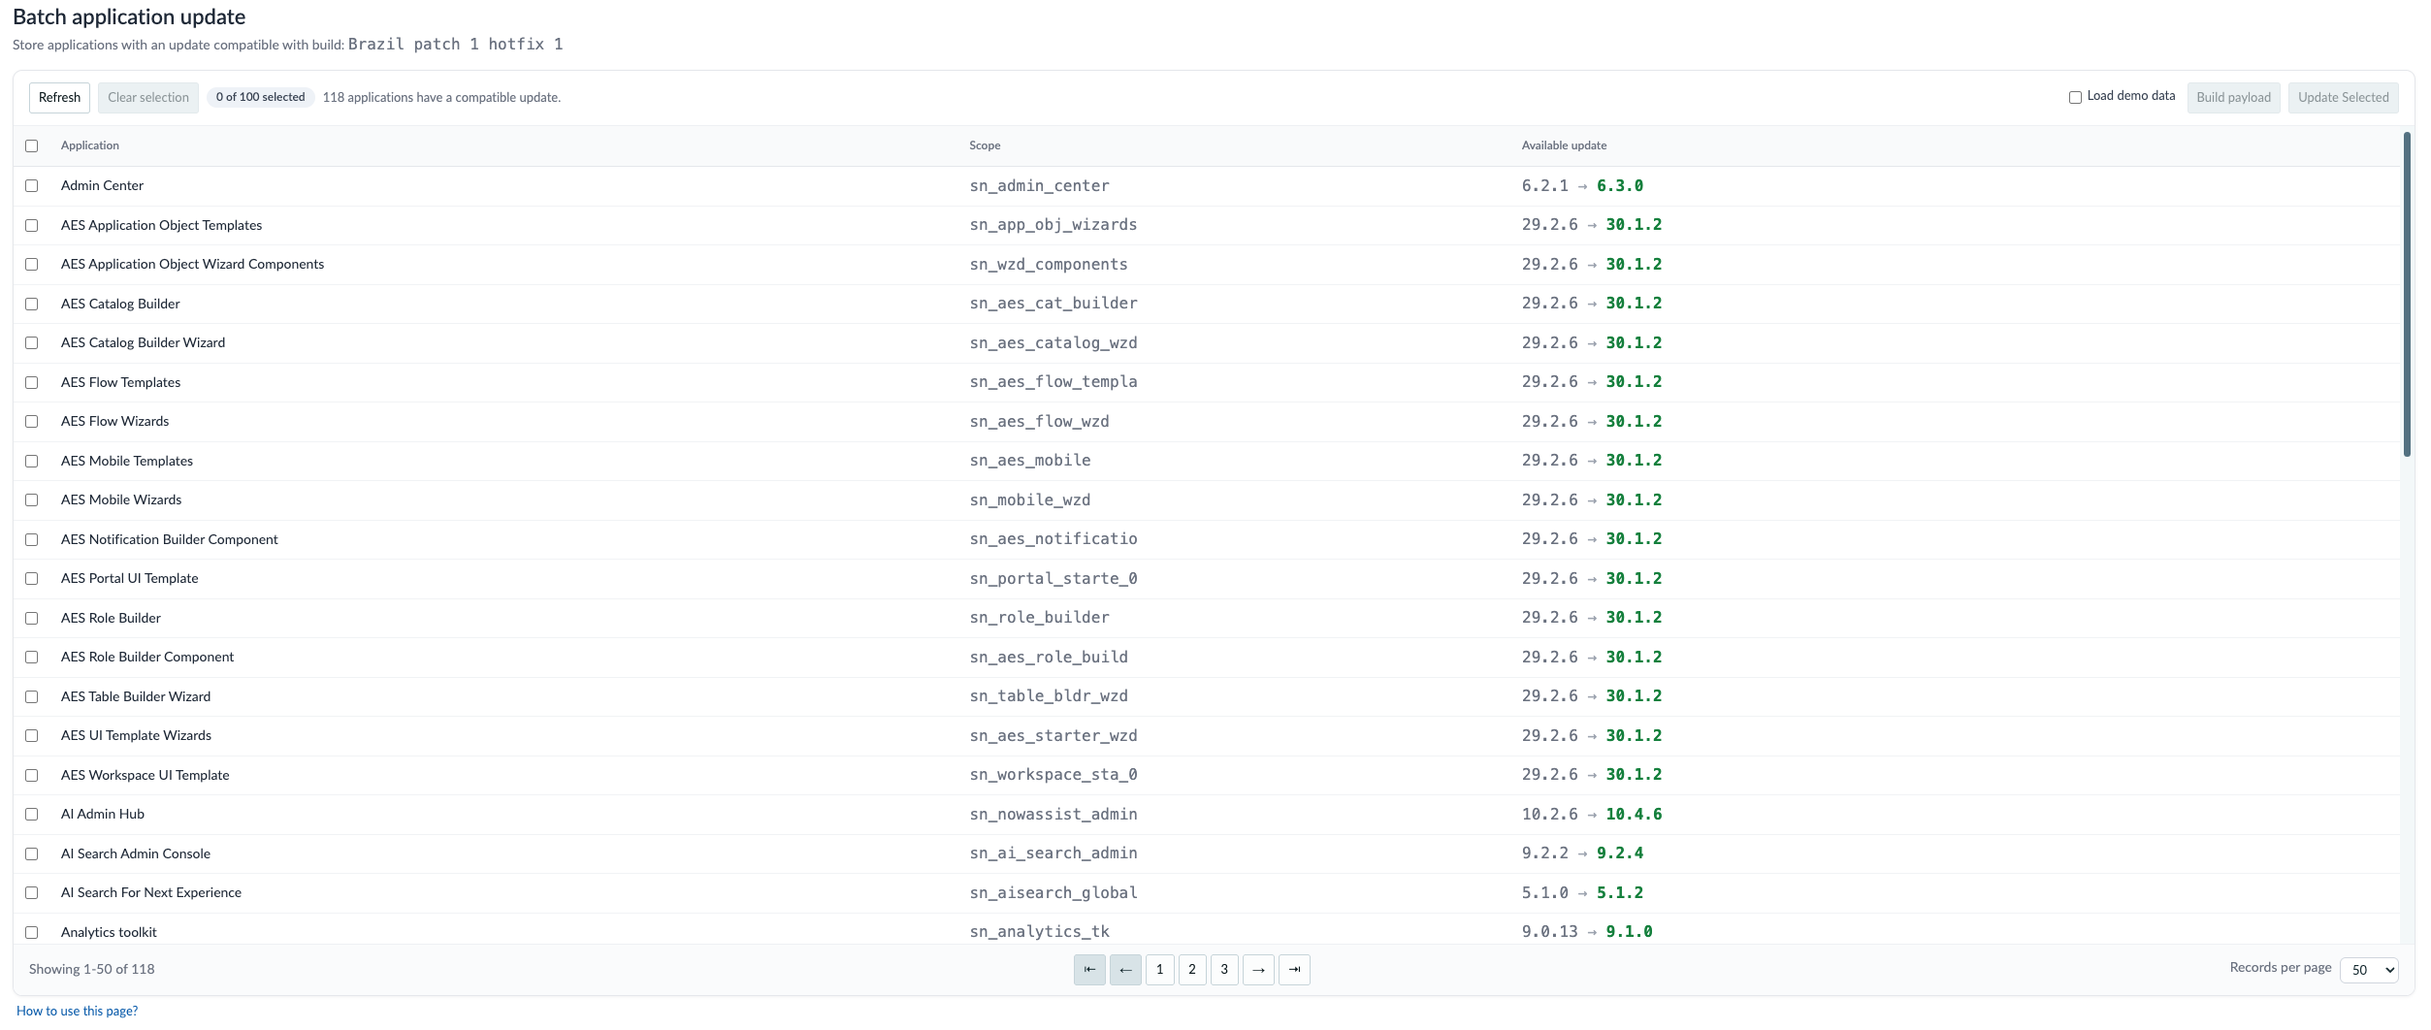
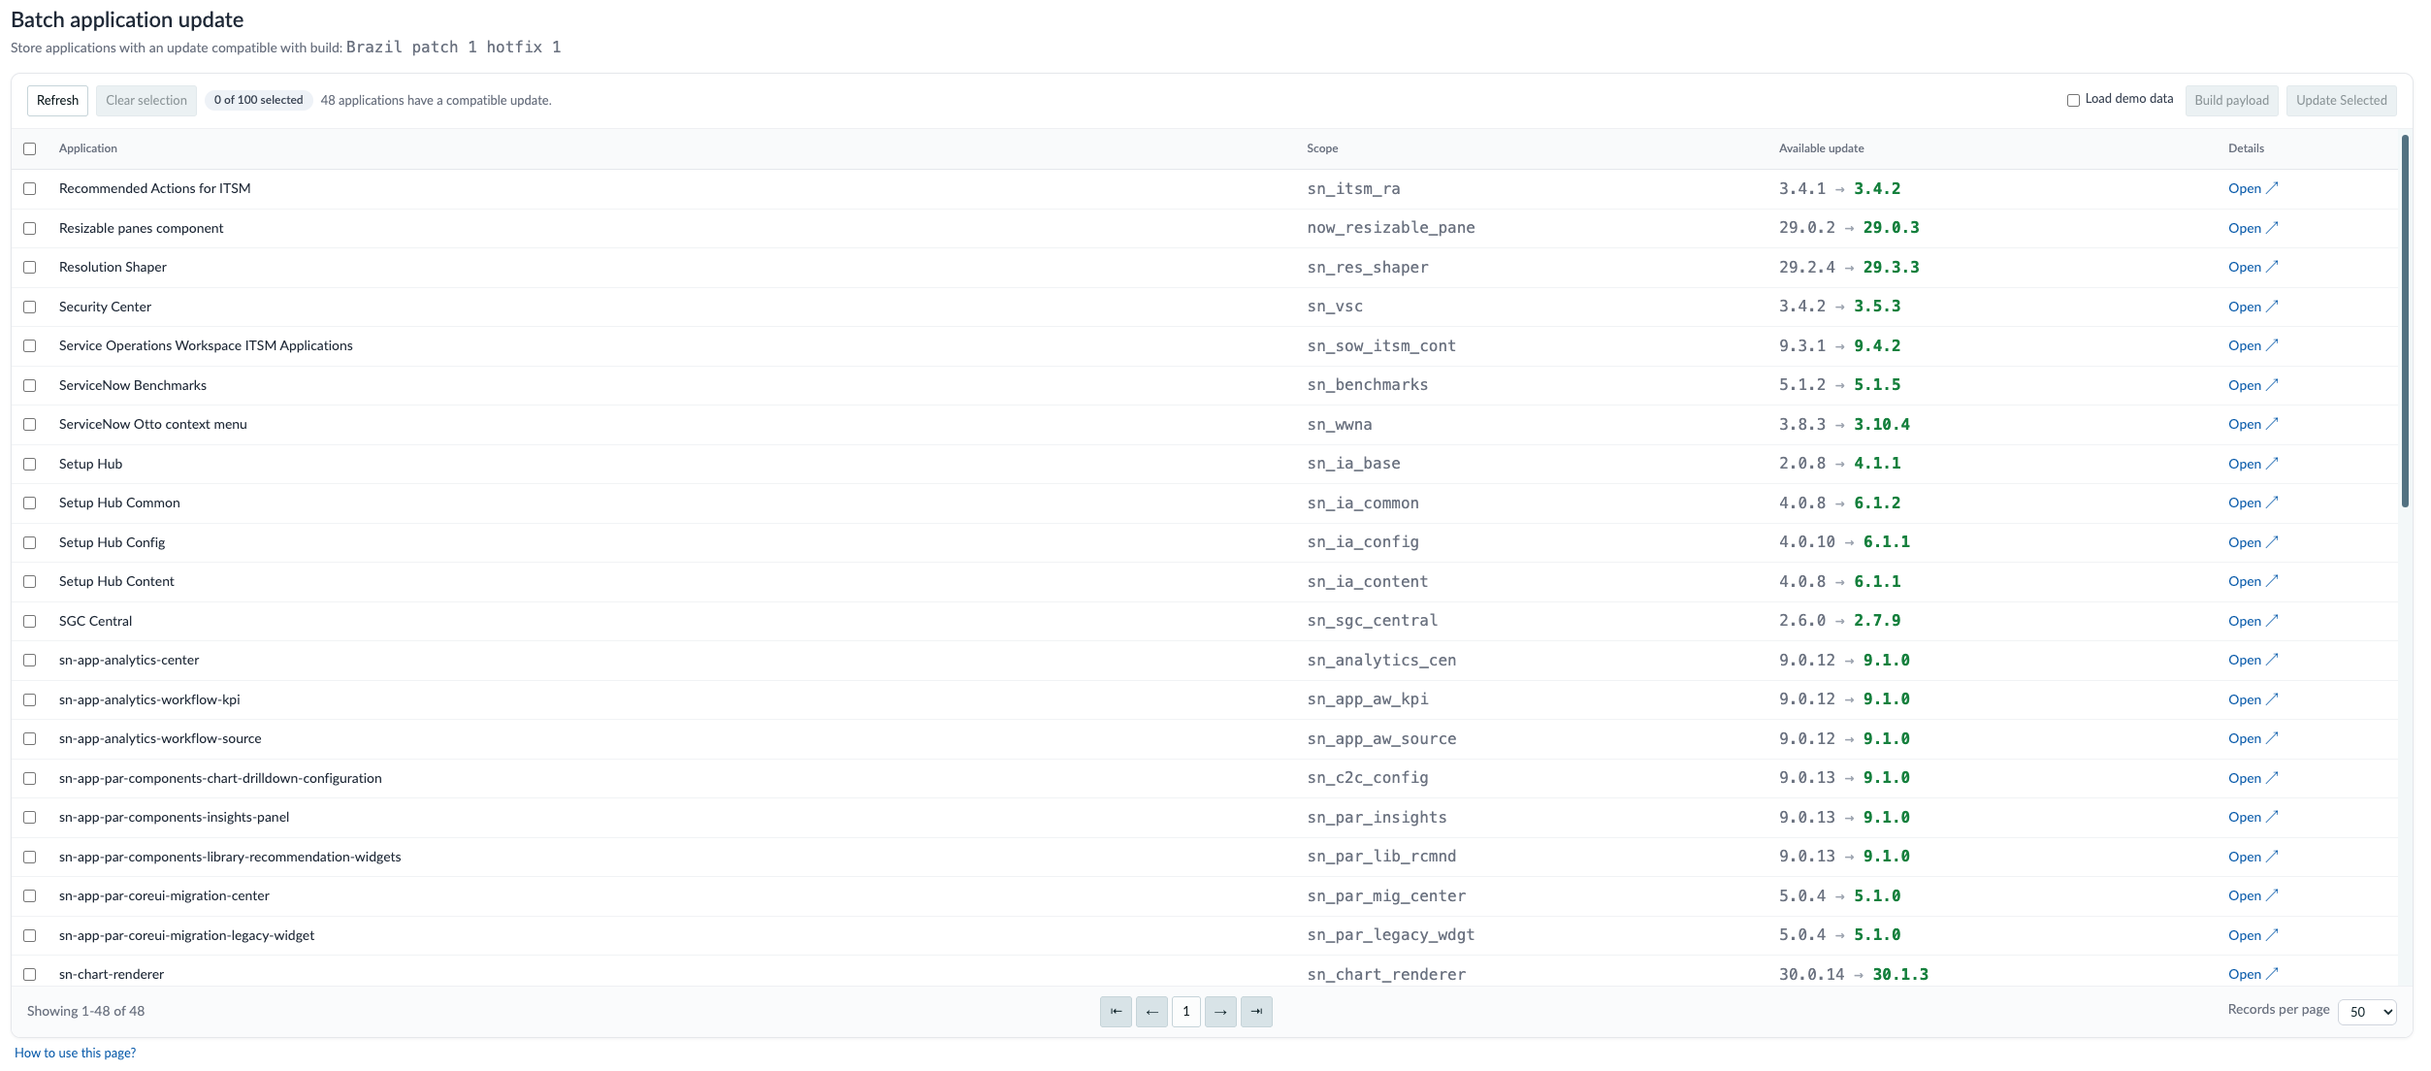
Release v1.1: Details link, inline demo data badge and System Definition module

diff --git a/src/ui_page/batch_app_update.client.js b/src/ui_page/batch_app_update.client.js
@@ -65,6 +65,7 @@ var BAU_MSG = [
     'Records per page',
     'Payload',
     'Copy JSON',
+    'Details',
     'Confirm batch update',
     'The update runs on the server and cannot be stopped from this page.',
     'Cancel',
@@ -131,6 +132,8 @@ var BAU_MSG = [
     'Status check failed ({0}/{1}): {2}. Retrying in {3} s.',
     'Finished, last check {0}',
     'Batch finished: {0}.',
+    'Open',
+    'Open in Application Manager',
     //help dialog
     'How to use this page?',
     'close',
@@ -263,6 +266,22 @@ function bauSetLink(id, href, text) {
     } else {
         el.textContent = text || '-';
     }
+}
+
+//Link to the application's target version in Application Manager (Next Experience route)
+function bauAppManagerLink(app) {
+    var a = document.createElement('a');
+    a.href = '/now/app-manager/home/app/id/' + encodeURIComponent(app.id) + '/v/' + encodeURIComponent(app.targetVersion);
+    a.target = '_blank';
+    a.rel = 'noopener';
+    a.className = 'bau-ext-link';
+    a.textContent = bauT('Open') + ' \u2197';
+    a.title = bauT('Open in Application Manager');
+    //Opening the link must not toggle the row selection
+    a.onclick = function (e) {
+        e.stopPropagation();
+    };
+    return a;
 }
 
 function bauSelectedCount() {
@@ -479,7 +498,11 @@ function bauRenderRows() {
         tdCheck.appendChild(cb);
         tr.appendChild(tdCheck);
 
-        tr.appendChild(bauCell(app.name, 'bau-col-name'));
+        var tdName = bauCell(app.name, 'bau-col-name');
+        if (app.demoDataLoaded) {
+            tdName.appendChild(bauSpan(bauT('Demo data'), 'bau-badge'));
+        }
+        tr.appendChild(tdName);
         tr.appendChild(bauCell(app.scope, 'bau-mono bau-muted'));
 
         var tdVer = document.createElement('td');
@@ -489,11 +512,9 @@ function bauRenderRows() {
         tdVer.appendChild(bauSpan(app.targetVersion, 'bau-target'));
         tr.appendChild(tdVer);
 
-        var tdDemo = document.createElement('td');
-        if (app.demoDataLoaded) {
-            tdDemo.appendChild(bauSpan(bauT('Demo data'), 'bau-badge'));
-        }
-        tr.appendChild(tdDemo);
+        var tdLink = document.createElement('td');
+        tdLink.appendChild(bauAppManagerLink(app));
+        tr.appendChild(tdLink);
 
         tr.onclick = function () {
             if (BAU.busy) {

diff --git a/translations/install_fi.js b/translations/install_fi.js
@@ -6,7 +6,7 @@
  * Existing messages are reported (same or different text) and never overwritten.
  */
 (function () {
-    var DRY_RUN = true; //set to false to create the records
+    var READ_ONLY = true; //set to false to create the records
     var LANGUAGE = 'fi'; //language code as in sys_language.id, for example 'de'
     var USE_WORKFLOW = true; //true: records are captured in your current update set
     var LOG_PREFIX = 'BatchAppUpdateTranslations (FI): ';
@@ -41,6 +41,7 @@
         ['Records per page', 'Tietueita sivulla'],
         ['Payload', 'Hyötykuorma'],
         ['Copy JSON', 'Kopioi JSON'],
+        ['Details', 'Tiedot'],
         ['Confirm batch update', 'Vahvista eräpäivitys'],
         ['The update runs on the server and cannot be stopped from this page.', 'Päivitys suoritetaan palvelimella, eikä sitä voi pysäyttää tältä sivulta.'],
         ['Cancel', 'Peruuta'],
@@ -106,6 +107,8 @@
         ['Status check failed ({0}/{1}): {2}. Retrying in {3} s.', 'Tilan tarkistus epäonnistui ({0}/{1}): {2}. Uusi yritys {3} s kuluttua.'],
         ['Finished, last check {0}', 'Valmis, viimeisin tarkistus {0}'],
         ['Batch finished: {0}.', 'Erä valmis: {0}.'],
+        ['Open', 'Avaa'],
+        ['Open in Application Manager', 'Avaa Application Managerissa'],
         ['How to use this page?', 'Miten tätä sivua käytetään?'],
         ['close', 'Sulje'],
         ['What this page does', 'Mitä sivu tekee'],
@@ -126,7 +129,7 @@
     ];
 
     var out = [];
-    out.push('DRY_RUN=' + DRY_RUN + ' | language=' + LANGUAGE + ' | USE_WORKFLOW=' + USE_WORKFLOW + ' | entries=' + MESSAGES.length);
+    out.push('READ_ONLY=' + READ_ONLY + ' | language=' + LANGUAGE + ' | USE_WORKFLOW=' + USE_WORKFLOW + ' | entries=' + MESSAGES.length);
 
     //Stop if the language is not installed and active
     var grLang = new GlideRecord('sys_language');
@@ -191,7 +194,7 @@
             continue;
         }
 
-        if (DRY_RUN) {
+        if (READ_ONLY) {
             counts.wouldCreate++;
             out.push('WOULD CREATE: ' + key);
             continue;

diff --git a/translations/install_sv.js b/translations/install_sv.js
@@ -6,7 +6,7 @@
  * Existing messages are reported (same or different text) and never overwritten.
  */
 (function () {
-    var DRY_RUN = true; //set to false to create the records
+    var READ_ONLY = true; //set to false to create the records
     var LANGUAGE = 'sv'; //language code as in sys_language.id, for example 'de'
     var USE_WORKFLOW = true; //true: records are captured in your current update set
     var LOG_PREFIX = 'BatchAppUpdateTranslations (SV): ';
@@ -41,6 +41,7 @@
         ['Records per page', 'Poster per sida'],
         ['Payload', 'Nyttolast'],
         ['Copy JSON', 'Kopiera JSON'],
+        ['Details', 'Detaljer'],
         ['Confirm batch update', 'Bekräfta batchuppdatering'],
         ['The update runs on the server and cannot be stopped from this page.', 'Uppdateringen körs på servern och kan inte stoppas från den här sidan.'],
         ['Cancel', 'Avbryt'],
@@ -106,6 +107,8 @@
         ['Status check failed ({0}/{1}): {2}. Retrying in {3} s.', 'Statuskontrollen misslyckades ({0}/{1}): {2}. Försöker igen om {3} s.'],
         ['Finished, last check {0}', 'Klar, senaste kontroll {0}'],
         ['Batch finished: {0}.', 'Batchen är klar: {0}.'],
+        ['Open', 'Öppna'],
+        ['Open in Application Manager', 'Öppna i Application Manager'],
         ['How to use this page?', 'Hur använder jag den här sidan?'],
         ['close', 'Stäng'],
         ['What this page does', 'Vad sidan gör'],
@@ -126,7 +129,7 @@
     ];
 
     var out = [];
-    out.push('DRY_RUN=' + DRY_RUN + ' | language=' + LANGUAGE + ' | USE_WORKFLOW=' + USE_WORKFLOW + ' | entries=' + MESSAGES.length);
+    out.push('READ_ONLY=' + READ_ONLY + ' | language=' + LANGUAGE + ' | USE_WORKFLOW=' + USE_WORKFLOW + ' | entries=' + MESSAGES.length);
 
     //Stop if the language is not installed and active
     var grLang = new GlideRecord('sys_language');
@@ -191,7 +194,7 @@
             continue;
         }
 
-        if (DRY_RUN) {
+        if (READ_ONLY) {
             counts.wouldCreate++;
             out.push('WOULD CREATE: ' + key);
             continue;

diff --git a/translations/install_template.js b/translations/install_template.js
@@ -6,7 +6,7 @@
  * Existing messages are reported (same or different text) and never overwritten.
  */
 (function () {
-    var DRY_RUN = true; //set to false to create the records
+    var READ_ONLY = true; //set to false to create the records
     var LANGUAGE = 'xx'; //language code as in sys_language.id, for example 'de'
     var USE_WORKFLOW = true; //true: records are captured in your current update set
     var LOG_PREFIX = 'BatchAppUpdateTranslations: ';
@@ -41,6 +41,7 @@
         ['Records per page', ''],
         ['Payload', ''],
         ['Copy JSON', ''],
+        ['Details', ''],
         ['Confirm batch update', ''],
         ['The update runs on the server and cannot be stopped from this page.', ''],
         ['Cancel', ''],
@@ -106,6 +107,8 @@
         ['Status check failed ({0}/{1}): {2}. Retrying in {3} s.', ''],
         ['Finished, last check {0}', ''],
         ['Batch finished: {0}.', ''],
+        ['Open', ''],
+        ['Open in Application Manager', ''],
         ['How to use this page?', ''],
         ['close', ''],
         ['What this page does', ''],
@@ -126,7 +129,7 @@
     ];
 
     var out = [];
-    out.push('DRY_RUN=' + DRY_RUN + ' | language=' + LANGUAGE + ' | USE_WORKFLOW=' + USE_WORKFLOW + ' | entries=' + MESSAGES.length);
+    out.push('READ_ONLY=' + READ_ONLY + ' | language=' + LANGUAGE + ' | USE_WORKFLOW=' + USE_WORKFLOW + ' | entries=' + MESSAGES.length);
 
     //Stop if the language is not installed and active
     var grLang = new GlideRecord('sys_language');
@@ -191,7 +194,7 @@
             continue;
         }
 
-        if (DRY_RUN) {
+        if (READ_ONLY) {
             counts.wouldCreate++;
             out.push('WOULD CREATE: ' + key);
             continue;

diff --git a/src/ui_page/batch_app_update.html b/src/ui_page/batch_app_update.html
@@ -370,6 +370,11 @@
             color: #0b5cab;
         }
 
+        .bau-ext-link {
+            color: #0b5cab;
+            white-space: nowrap;
+        }
+
         .bau-strong {
             font-weight: 600;
         }
@@ -580,7 +585,7 @@
                             <th data-bau-msg="Application">Application</th>
                             <th data-bau-msg="Scope">Scope</th>
                             <th data-bau-msg="Available update">Available update</th>
-                            <th></th>
+                            <th data-bau-msg="Details">Details</th>
                         </tr>
                     </thead>
                     <tbody id="bauBody"></tbody>

diff --git a/README.md b/README.md
@@ -10,6 +10,8 @@ The request runs as the logged-in user, the same way REST API Explorer does. No 
 
 - Lists installed store applications that have an update compatible with the instance's family release, with installed and target version
 - Picks the highest compatible version per application (numeric version comparison)
+- Details link per application that opens its target version in Application Manager in a new tab
+- Demo data badge next to applications that already have demo data loaded
 - Pagination (10, 50 or 100 per page) and selection of up to 100 applications per batch
 - Payload preview with copy to clipboard, so you can review the JSON before anything is sent
 - Confirmation dialog that shows the target instance and the list of applications
@@ -18,6 +20,7 @@ The request runs as the logged-in user, the same way REST API Explorer does. No 
 - Resumes tracking after a page reload and blocks a second batch while one is running, including batches started by other admins from this page
 - Marks a batch as stalled after 60 minutes without progress
 - Shows the installed patch level and warns when an upgrade is assigned but not finished
+- Module under **System Definition**
 - Built-in help dialog
 - All texts are translatable through the Messages table (`sys_ui_message`). English is built in.
 
@@ -29,11 +32,13 @@ The request runs as the logged-in user, the same way REST API Explorer does. No 
 
 ## Installation
 
-1. Download `update-set/Batch_Application_Update_v1.0.xml`.
+1. Download `update-set/Batch_Application_Update_v1.1.xml`.
 2. In your instance, go to **System Update Sets > Retrieved Update Sets** and use **Import Update Set from XML**.
 3. Open the imported update set, click **Preview Update Set** and check that there are no problems.
 4. Click **Commit Update Set**.
-5. Open `/batch_app_update.do` directly or using Next Experience UI `/now/nav/ui/classic/params/target/batch_app_update.do`.
+5. Open **System Definition > Batch Application Update** (or direct URL `/batch_app_update.do` or using Next Experience UI `/now/nav/ui/classic/params/target/batch_app_update.do`, if you prefer).
+
+The v1.1 update set is complete and does not require v1.0. If v1.0 is installed, commit v1.1 over it.
 
 Test it on a sub-production instance first.
 
@@ -46,17 +51,19 @@ Test it on a sub-production instance first.
 | Access Control | `batch_app_update` (type `ui_page`, role admin) |
 | Access Control | `BatchAppUpdateAjax` (type `client_callable_script_include`, role admin) |
 | Access Roles | The two ACL-to-role links for the existing `admin` role |
+| Module | `Batch Application Update` in the System Definition menu (role admin) |
 
-All records are in the Global scope. The update set contains no translations and changes no existing platform records.
+All records are in the Global scope. The update set contains no translations and changes no existing platform records. The module is added to the existing System Definition menu without changing the menu record.
 
 ## Usage
 
-1. Open `/batch_app_update.do` directly or using Next Experience UI `/now/nav/ui/classic/params/target/batch_app_update.do`. The list shows every installed store application with a compatible update.
-2. Select the applications to update. The header checkbox selects or clears the current page.
-3. Check **Load demo data** only if you want demo data loaded for all applications in the batch, for example on a test or demo instance.
-4. Click **Build payload** and review the JSON.
-5. Click **Update selected**, check the instance name and the list in the confirmation dialog, then confirm.
-6. Follow the progress in the Batch install card. When the batch finishes, the list refreshes.
+1. Open **System Definition > Batch Application Update**. You can also open `/batch_app_update.do` directly or using Next Experience UI `/now/nav/ui/classic/params/target/batch_app_update.do`. The list shows every installed store application with a compatible update.
+2. To check what an update contains, click **Open ↗** in the Details column. Application Manager opens the target version in a new tab.
+3. Select the applications to update. The header checkbox selects or clears the current page.
+4. Check **Load demo data** only if you want demo data loaded for all applications in the batch, for example on a test, demo or PDI instance.
+5. Click **Build payload** and review the JSON.
+6. Click **Update selected**, check the instance name and the list in the confirmation dialog, then confirm.
+7. Follow the progress in the Batch install card. When the batch finishes, the list refreshes.
 
 You can reload or close the page while a batch runs. The install continues on the server and the page picks up the running batch when you open it again.
 
@@ -77,9 +84,11 @@ Each script is a background script that:
 - stops if the language is not installed and active on the instance
 - creates only the messages that are missing
 - never overwrites an existing message, and reports keys that already exist with a different text
-- runs as a dry run until you set `DRY_RUN = false`
+- runs read-only until you set `READ_ONLY = false`
 
-To apply one, open **System Definition > Scripts - Background**, paste the script and run it. Review the output, then set `DRY_RUN = false` and run it again.
+To apply one, open **System Definition > Scripts - Background**, paste the script and run it. Review the output, then set `READ_ONLY = false` and run it again.
+
+If you ran a translation script for v1.0, run the v1.1 version as well. It creates only the messages added in v1.1.
 
 ### Adding a language
 
@@ -110,6 +119,7 @@ These values are set in code:
 ## How it works
 
 - **Candidates:** `sys_store_app` records that are installed, visible and have `update_available=true`. For each one, the highest version in `sys_app_version` whose `compatibilities` contains the instance's `glide.buildname` is used as the target.
+- **Details link:** `/now/app-manager/home/app/id/<sys_store_app sys_id>/v/<target version>`.
 - **Install:** the browser posts the payload to `POST /api/sn_cicd/app/batch/install` with the session token (`X-UserToken: g_ck`), so the call runs as the logged-in user.
 - **Tracking:** the page polls `sys_execution_tracker`, `sys_batch_install_plan` and `sys_batch_install_item` through GlideAjax. Polling backs off when nothing changes and pauses while the browser tab is in the background.
 - **Translations:** the page sends its list of message keys to the Script Include, which returns `gs.getMessage()` for each key in the user's session language.
@@ -121,12 +131,13 @@ More information about the CI/CD API: [ServiceNow Docs](https://www.servicenow.c
 - Only store applications are listed. Application customizations are not.
 - Compatibility is matched on the family release (`glide.buildname`). The patch level is shown for information only.
 - With **Load demo data** unchecked, the batch sends `load_demo_data: false` for every application. Test on a sub-production instance how this behaves for applications that already have demo data.
+- The Details link opens Application Manager (`/now/app-manager/...`). Legacy Application Manager is deprecated as of Zurich patch 8 and Australia patch 1, so Application Manager opens in the Next Experience shell even when Next Experience is turned off.
 - A batch cannot be stopped from this page. Use the rollback context in the Batch install card if you need to roll back.
 - The UI page must have **Direct** unchecked. The page relies on `g_ck`, `GlideAjax` and `addLoadEvent` from the standard page template.
 
 ## Uninstall
 
-Delete the UI page `batch_app_update`, the Script Include `BatchAppUpdateAjax` and the two ACLs. If you ran a translation script, delete its `sys_ui_message` records as well.
+Delete the UI page `batch_app_update`, the Script Include `BatchAppUpdateAjax`, the two ACLs and the module **System Definition > Batch Application Update**. If you ran a translation script, delete its `sys_ui_message` records as well.
 
 ## Disclaimer
 

diff --git a/SECURITY.md b/SECURITY.md
@@ -1,39 +1,43 @@
 # Security policy
- 
+
 ## Supported versions
- 
+
 Only the latest release in this repository receives fixes.
- 
+
 | Version | Supported |
 |---|---|
-| 1.0 | Yes |
- 
+| 1.1 | Yes |
+| 1.0 | No |
+
 ## Reporting a vulnerability
- 
+
 Please do not report security issues in public issues or discussions.
- 
+
 Report them privately through GitHub: open the **Security** tab of this repository and select **Report a vulnerability**.
- 
+
 Include:
- 
+
 - a description of the issue and its impact
 - steps to reproduce, ideally on a Personal Developer Instance (PDI)
 - the ServiceNow family release and patch level you tested on
+
 Do not include credentials, customer data or details of a production instance.
- 
+
 You will get an answer as soon as possible. If the report is confirmed, a fix is released and the reporter is credited unless they prefer not to be.
- 
+
 ## Scope
- 
+
 In scope:
- 
+
 - the UI page `batch_app_update`, the Script Include `BatchAppUpdateAjax` and their ACLs
 - the translation scripts in `translations/`
+
 Out of scope:
- 
+
 - the ServiceNow platform itself, including the CI/CD API. Report those to ServiceNow.
 - issues that require the admin role, unless they let a user do more than the admin role already allows
+
 ## Security design notes
- 
+
 - The page and every client-callable method require the `admin` role.
 - The batch install request runs as the logged-in user with the session token (`g_ck`). The tool stores no credentials.
